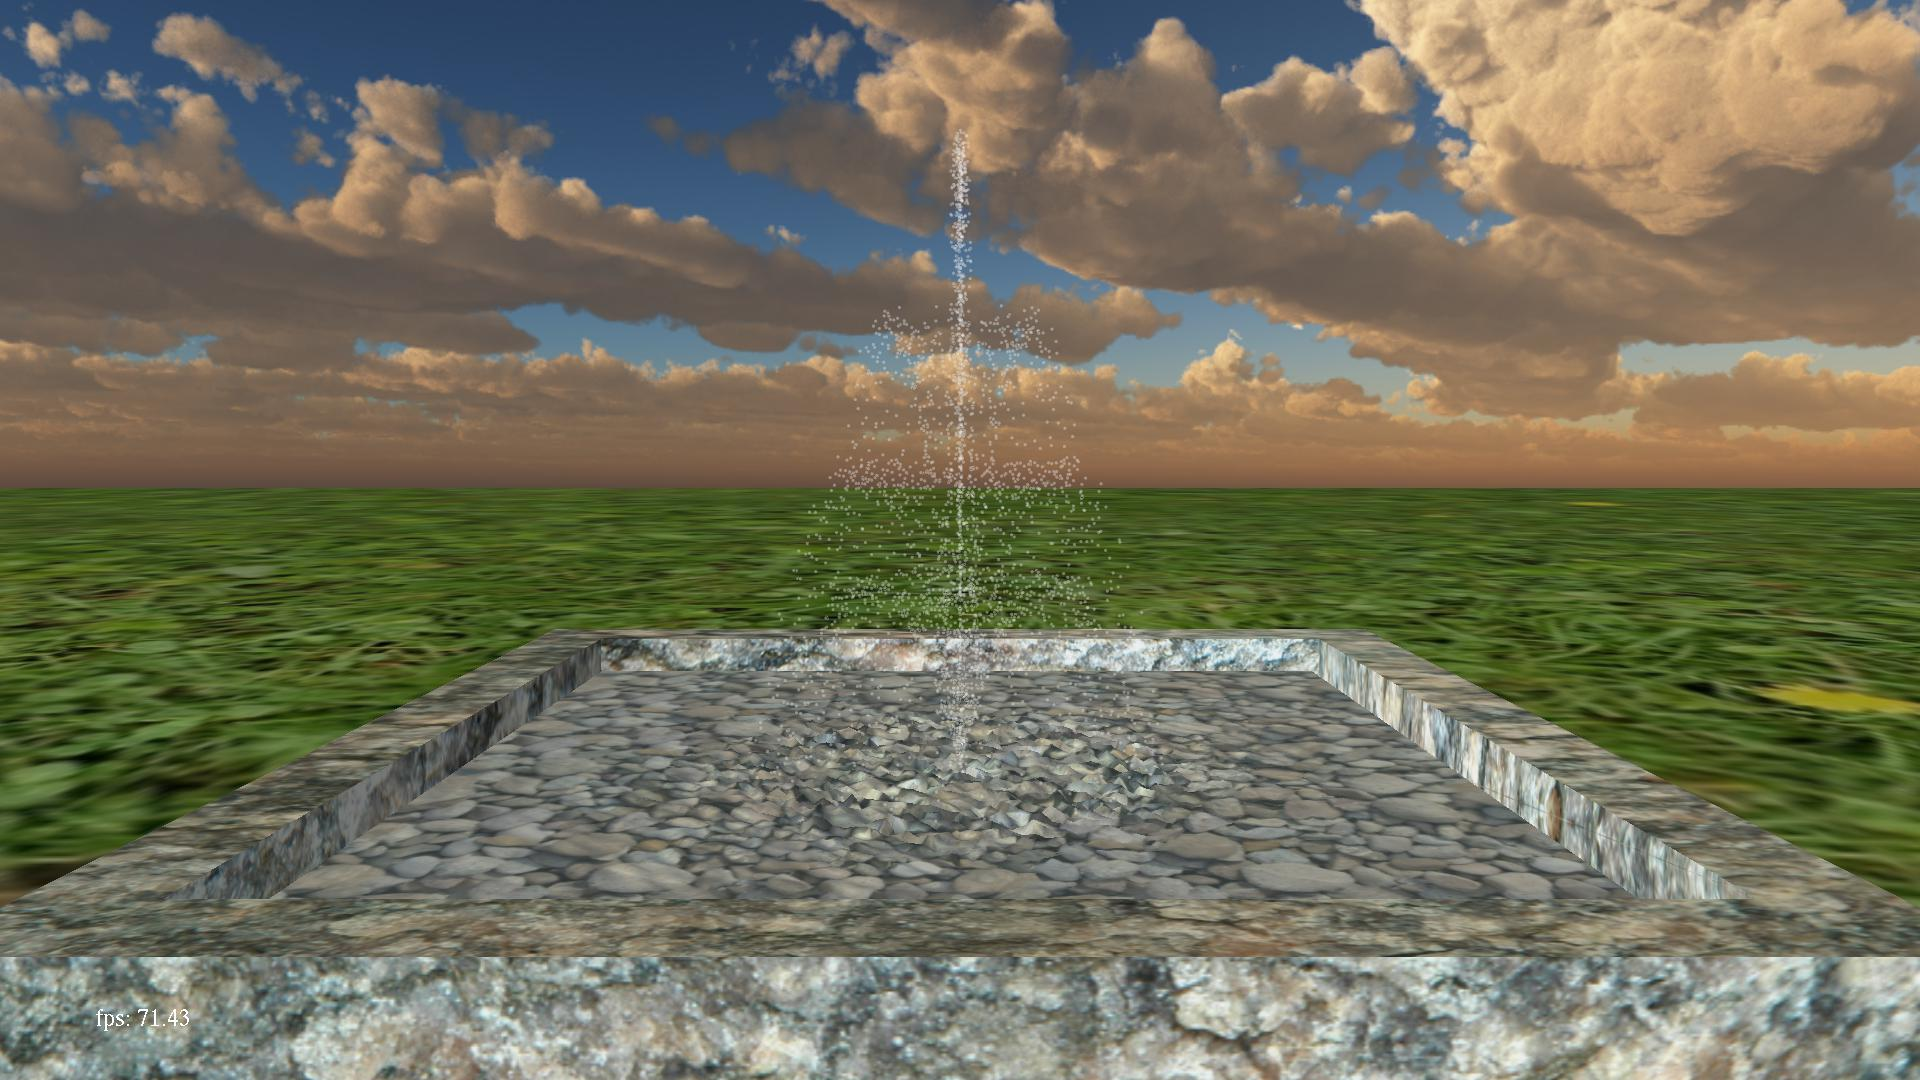
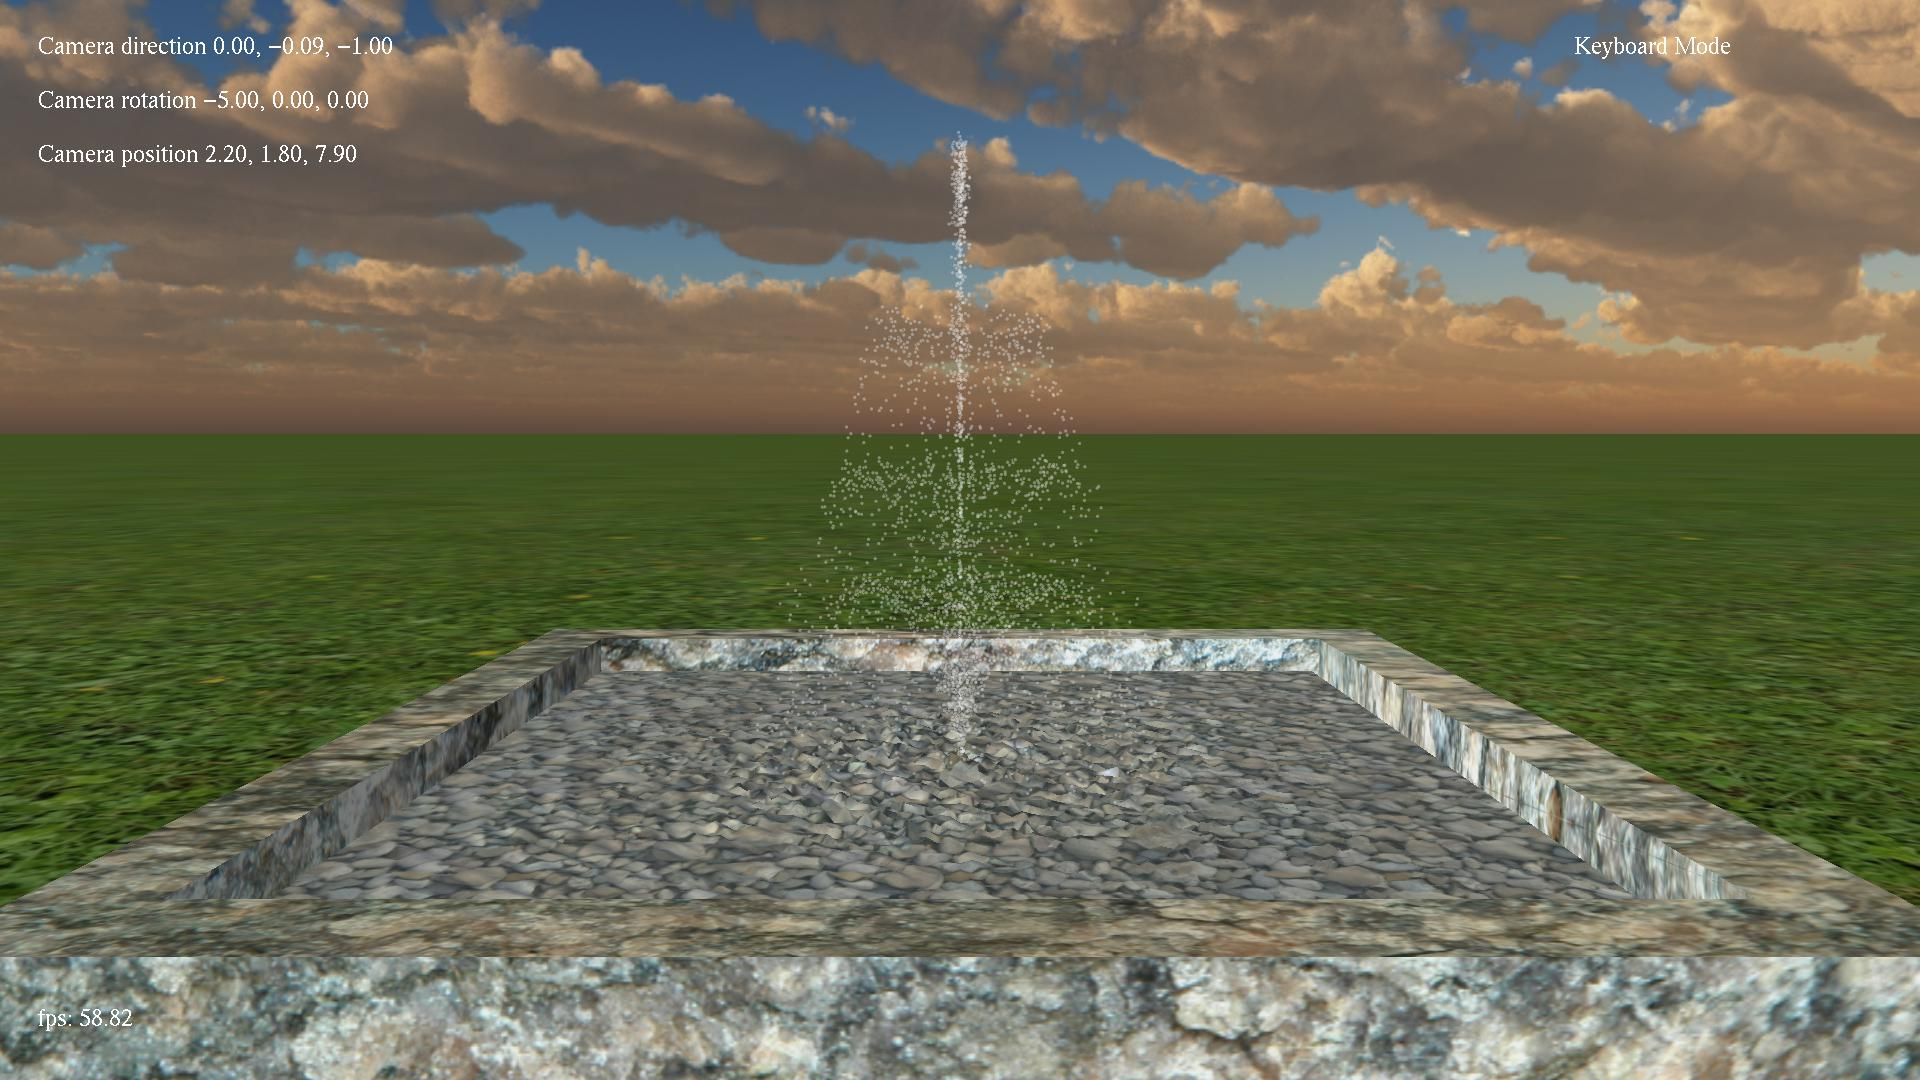
update readme

diff --git a/README.md b/README.md
@@ -16,7 +16,7 @@ A fountain built with OpenGL fixed piepline.
 
 Note: this can look quite different on different machines:
 
-* The computational power(or, the optimization performed by the compiler) will affect the frame rate, therefore affect the speed of the fountain water.
+* The computational power(or, the optimization performed by the compiler) will affect the frame rate, therefore affect the speed of the fountain water. If your computer is powerful enough, the frame rate will be around 58fps.
 * The resolution of the screen will affect the overall experience, including font size, texture, and the size of water particles.
 
 Under normal resolution, it looks like this:
@@ -66,13 +66,20 @@ To lower down the burden on the CPU, the preset shapes are rather simple(with no
 ## Operations
 
 * <kbd>1</kbd> - <kbd>8</kbd>: Change the shape of the fountain
+* <kbd>f</kbd>: Toggle fullscreen mode
+* <kbd>c</kbd>: Toggle mouse mode
+* <kbd>ESC</kbd>: exit
+
+### Under Keyboard Mode
 * <kbd>→</kbd>, <kbd>←</kbd>: Turn camera right / left
 * <kbd>↑</kbd>, <kbd>↓</kbd>: Move camera forward / backword
 * <kbd>r</kbd>, <kbd>v</kbd>: Turn camera up / down
 * <kbd>w</kbd>, <kbd>s</kbd>: Move camera up / down
 * <kbd>a</kbd>, <kbd>d</kbd>: Move camera left / right
-* <kbd>F</kbd>: toggle fullscreen mode
-* <kbd>ESC</kbd>: exit
+
+### Under Mouse mode
+* Mouse move: Rotate camera
+* Mouse scroll: tMove forward / backward
 
 ## File structure
 
